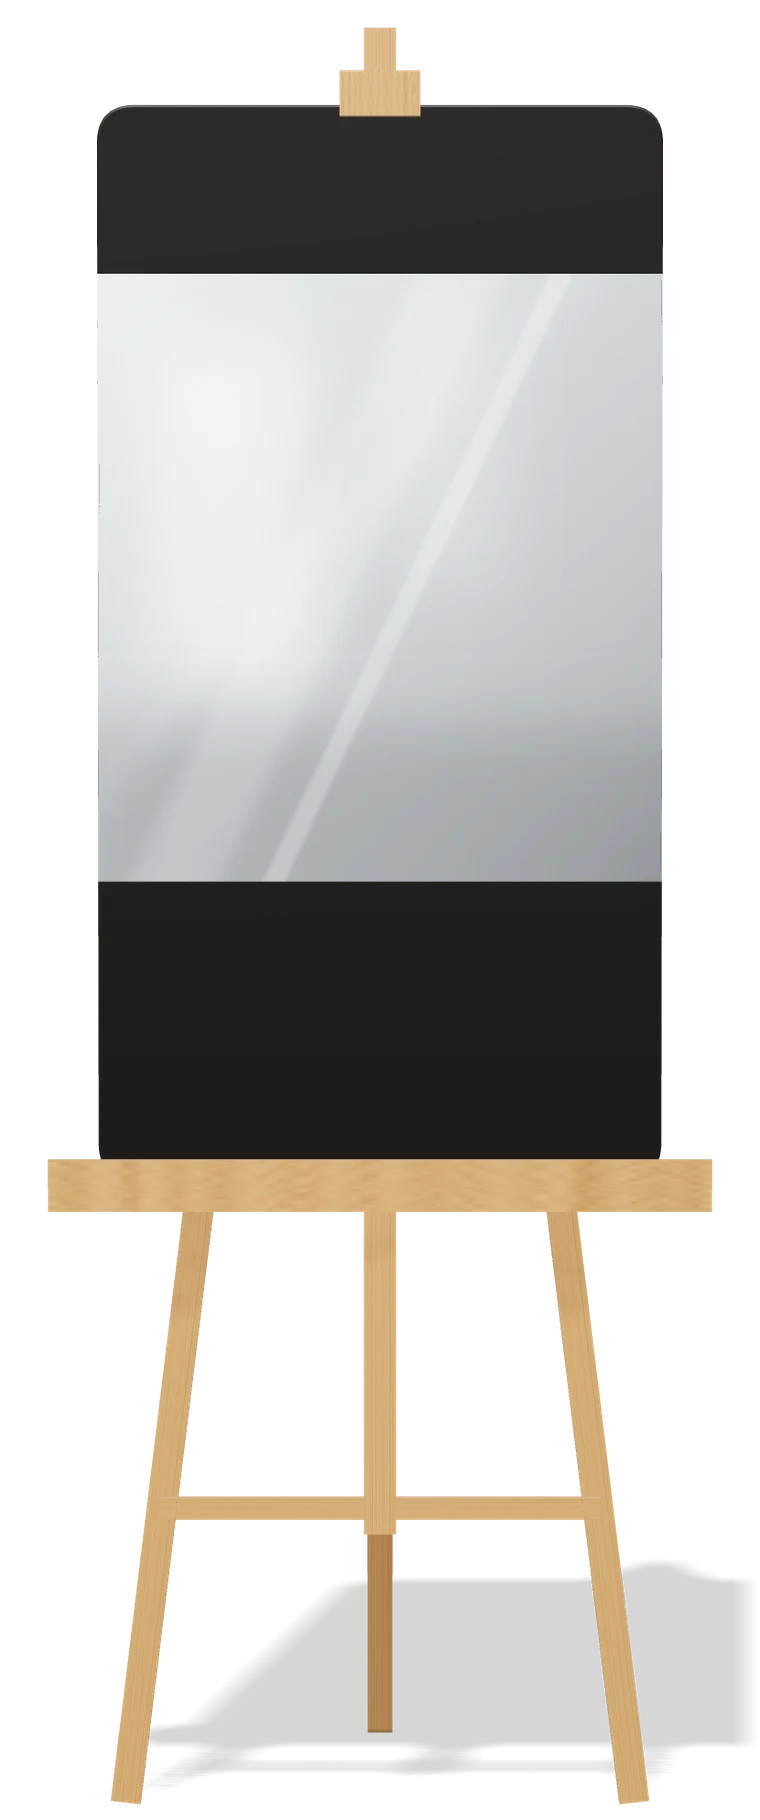
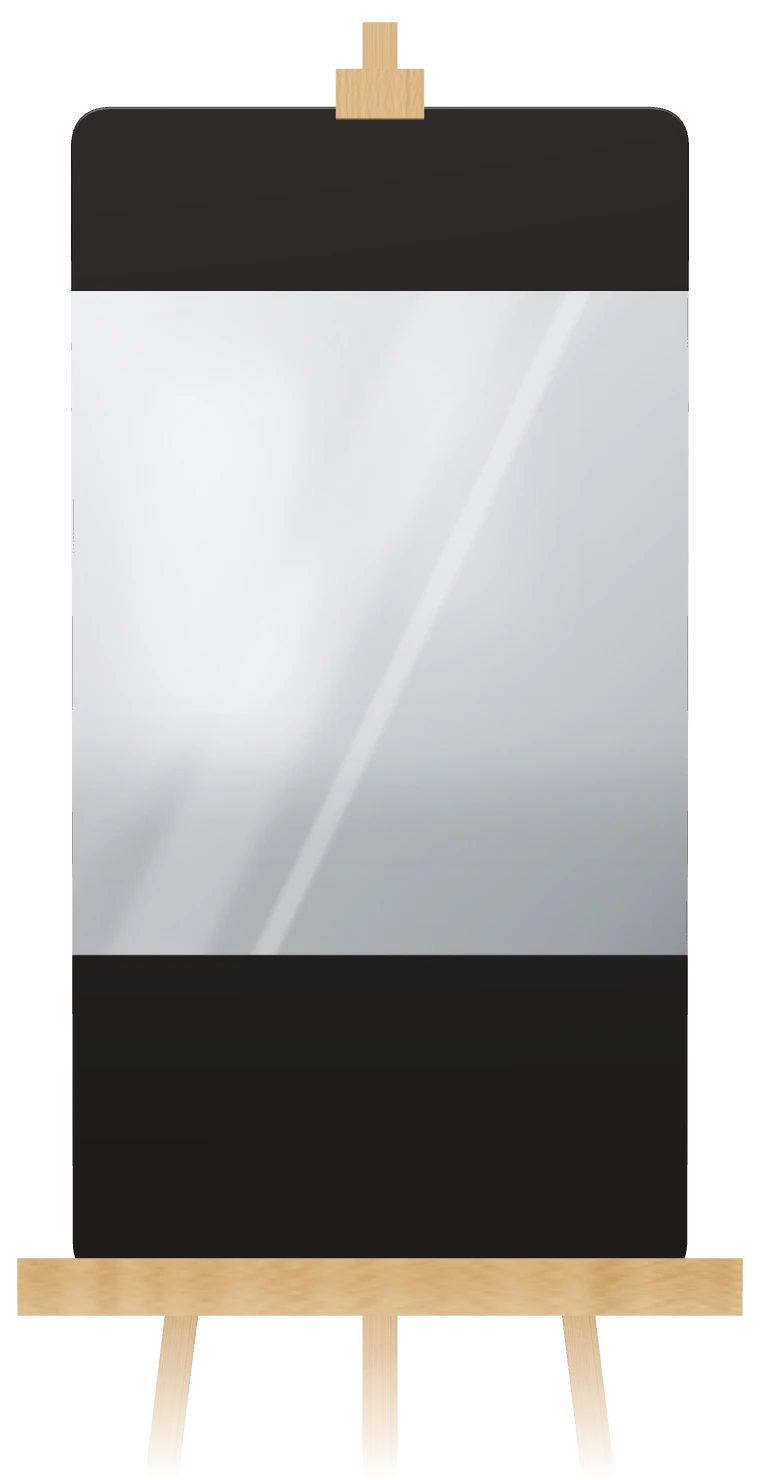
Miroir zoomé, texte plus lisible (#5)
* Miroir agrandi de 20 % (accueil et configurateur)

Claude-Session: https://claude.ai/code/session_012ngxBPVu4EnHkjxWwvMvpX

* Miroir recadré et zoomé (moins de chevalet, texte plus lisible)

Claude-Session: https://claude.ai/code/session_012ngxBPVu4EnHkjxWwvMvpX

---------

diff --git a/index.html b/index.html
@@ -110,7 +110,7 @@ header.scrolled{border-bottom-color:var(--line)}
 /* the 3D mirror: studio plate + live print + LED halo */
 .studio{position:relative;display:grid;justify-items:center}
 .studio::before{content:"";position:absolute;inset:6% -8% 4% -8%;background:radial-gradient(closest-side,#FFFFFF 0%,rgba(255,255,255,0) 72%);z-index:-1}
-.m3{position:relative;width:min(340px,100%);aspect-ratio:760/1820}
+.m3{position:relative;width:min(420px,100%);aspect-ratio:760/1480}
 .m3>*{position:absolute;inset:0;width:100%;height:100%}
 .m3 .halo{opacity:0;transition:opacity 1.2s var(--ease);overflow:visible}
 .m3.lit .halo{opacity:1}
@@ -122,7 +122,7 @@ header.scrolled{border-bottom-color:var(--line)}
   .hero-txt{grid-area:txt}.hero-try{grid-area:try}.hero-trust{grid-area:trust}
   .hero-txt{text-align:center;display:grid;justify-items:center}
   .lead{margin-inline:auto}
-  .hero-mir .m3{width:min(210px,52vw);margin-top:12px}
+  .hero-mir .m3{width:min(320px,82vw);margin-top:12px}
   .studio .cap{display:none}
   .try{margin:6px auto 0}
   .hero-trust{justify-content:center;margin-top:24px}
@@ -224,7 +224,7 @@ input:focus,textarea:focus{outline:none;border-color:var(--or);box-shadow:0 0 0 
 .msg.ok{background:#E7F3EC;color:#14532D}
 .msg.ko{background:#FBEAEA;color:#7F1D1D}
 .stage{position:sticky;top:92px;display:grid;justify-items:center;gap:16px;padding:clamp(20px,3vw,32px) clamp(16px,2vw,24px);border-radius:var(--r-lg);background:radial-gradient(120% 80% at 50% 35%,#FFFFFF 0%,var(--bg-2) 100%);border:1px solid var(--line)}
-.stage .m3{width:min(320px,100%)}
+.stage .m3{width:min(400px,100%)}
 .stage .cap{font-size:13px;color:var(--muted);text-align:center;margin-top:-4%}
 .stage .quick{display:flex;gap:8px;flex-wrap:wrap;justify-content:center}
 .chip{display:inline-flex;align-items:center;gap:8px;min-height:40px;padding:6px 14px;border-radius:999px;border:1px solid var(--line);background:var(--card);font:inherit;font-size:14px;font-weight:500;cursor:pointer;transition:border-color .2s}
@@ -233,7 +233,7 @@ input:focus,textarea:focus{outline:none;border-color:var(--or);box-shadow:0 0 0 
 @media (max-width:980px){
   .config{grid-template-columns:minmax(0,1fr)}
   .stage{order:-1;top:68px;z-index:5;grid-template-columns:auto minmax(0,1fr);justify-items:start;align-items:center;padding:10px 14px;border-radius:0 0 20px 20px;margin-inline:-20px;background:rgba(243,238,230,.96);backdrop-filter:blur(10px)}
-  .stage .m3{width:74px}
+  .stage .m3{width:96px}
   .stage .cap{text-align:left;margin:0}
   .stage .quick{grid-column:2;justify-content:flex-start}
   .stage .chip{min-height:36px;padding:4px 12px;font-size:13px}
@@ -615,7 +615,7 @@ Adresse.
   // 63 cm = 2419 px, so 120 cm = 4608 px; the mirror zone fills the gap between the two panels.
   var W=2419, H=4608, TOP=719, BOT=1286, BY=H-BOT;
   // 3D studio plates (rendered in three.js) and where the printed face lands on them, in plate pixels.
-  var PLATE={w:760,h:1820,quad:[[96.85,104.93],[663.15,104.93],[661.38,1180.8],[98.62,1180.8]],src:{Blanche:"img/miroir-3d-blanc.webp",Noire:"img/miroir-3d-noir.webp"}};
+  var PLATE={w:760,h:1480,quad:[[70.77,106.59],[689.23,106.59],[687.3,1281.56],[72.7,1281.56]],src:{Blanche:"img/miroir-3d-blanc.webp",Noire:"img/miroir-3d-noir.webp"}};
 
   function esc(s){return String(s).replace(/&/g,"&amp;").replace(/</g,"&lt;").replace(/>/g,"&gt;").replace(/"/g,"&quot;")}
   function val(id){return $(id).value}
